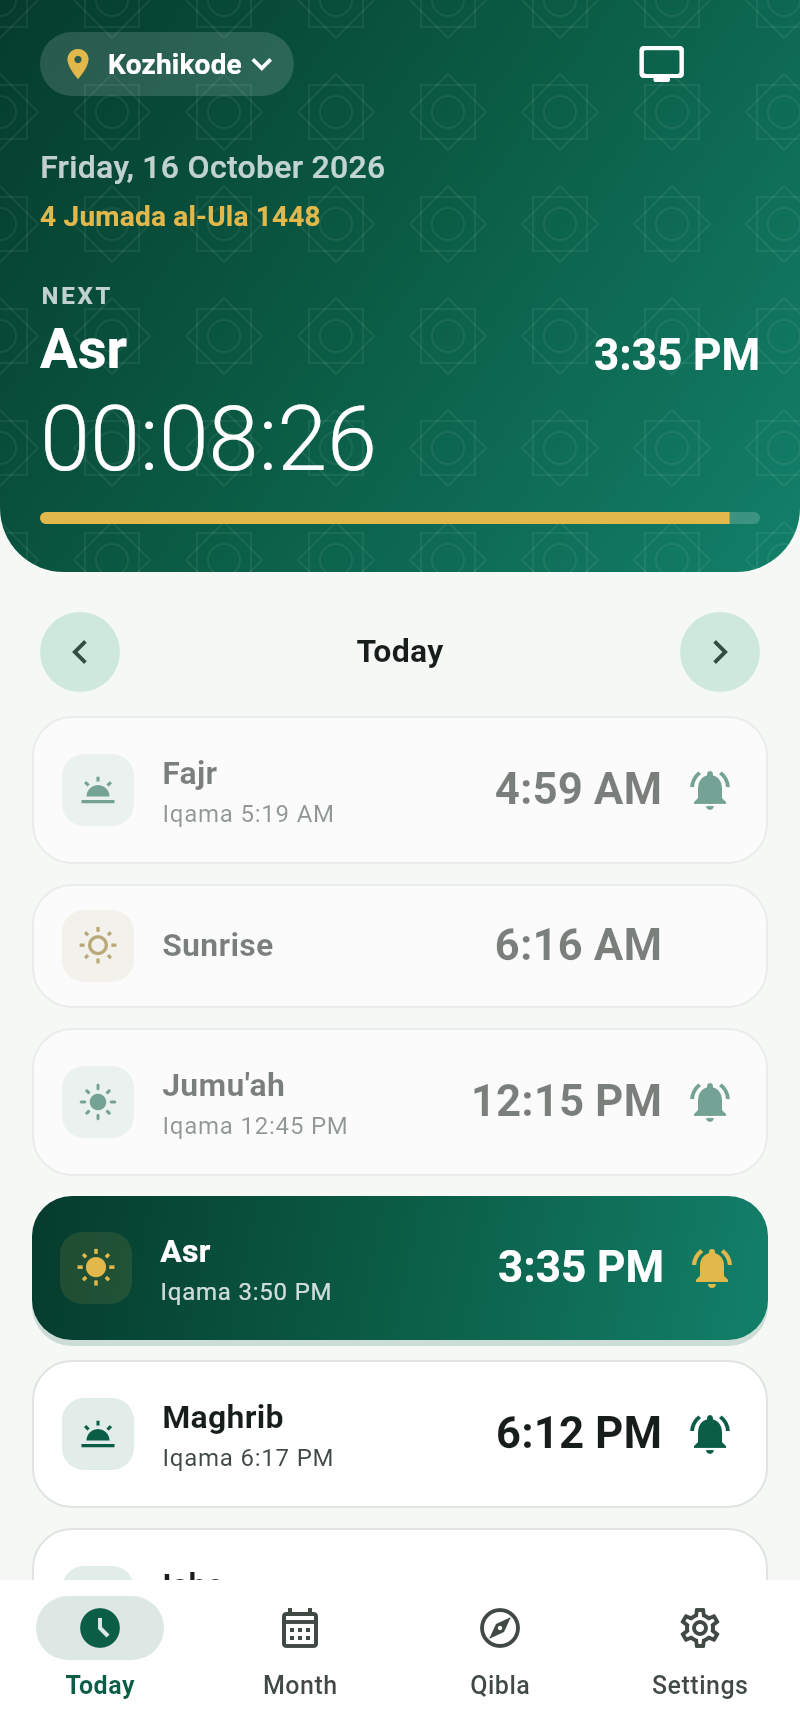
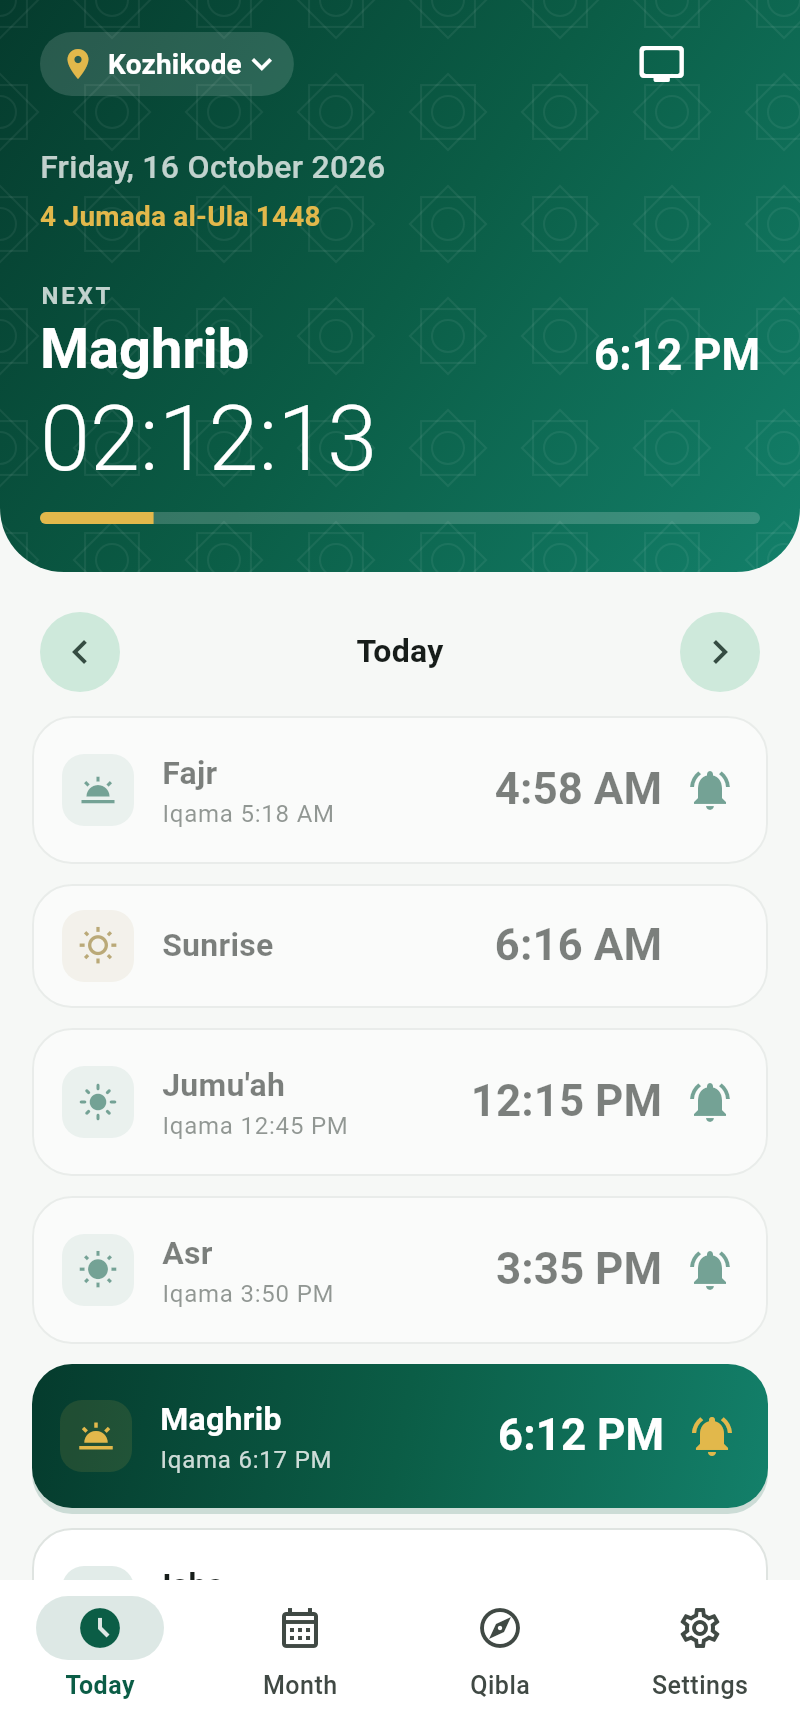
Waqt: refit Kerala Fajr/Isha angles to the Samastha charts
Checked against 69 Kerala yearly charts: Fajr now within 1 min on 86%
of days (was 45%), Isha on 93% (was 91%), with no average bias.

Claude-Session: https://claude.ai/code/session_011RQnYZdmTi7RLwqvGgsba4

Changed region(s): [[0.0312, 0.6779, 0.9688, 0.8936], [0.0312, 0.1849, 0.9062, 0.3081], [0.75, 0.1849, 0.875, 0.2157]]

diff --git a/lib/core/prayer_calc.dart b/lib/core/prayer_calc.dart
@@ -85,9 +85,10 @@ class CalcMethod {
   static const kerala = CalcMethod(
     id: 'kerala',
     name: 'Kerala (Samastha-style)',
-    // Fitted to published Kerala yearly charts: about ±1 min over the year.
-    fajrAngle: 19.5,
-    ishaAngle: 18.5,
+    // Fitted to 69 published Kerala yearly charts: within 1 min on about
+    // 9 days in 10, within 2 min on 19 in 20.
+    fajrAngle: 19.8,
+    ishaAngle: 18.4,
     dhuhrMinutes: 3,
     asrMinutes: 2,
     maghribMinutes: 3,

diff --git a/test/core/prayer_calc_test.dart b/test/core/prayer_calc_test.dart
@@ -90,8 +90,8 @@ void main() {
         method: CalcMethod(
           id: 'x',
           name: 'x',
-          fajrAngle: 19.5,
-          ishaAngle: 18.5,
+          fajrAngle: 19.8,
+          ishaAngle: 18.4,
         ),
       ),
     );

diff --git a/README.md b/README.md
@@ -79,7 +79,7 @@ Kerala and working anywhere. No ads, no tracking and no internet permission.
 
 | Method | Fajr | Isha | Built-in margins |
 |---|---|---|---|
-| **Kerala (Samastha-style)** (default) | 19.5° | 18.5° | Dhuhr +3, Asr +2, Maghrib +3 min |
+| **Kerala (Samastha-style)** (default) | 19.8° | 18.4° | Dhuhr +3, Asr +2, Maghrib +3 min |
 | Karachi | 18° | 18° | – |
 | Muslim World League | 18° | 17° | – |
 | Umm al-Qura | 18.5° | 90 min after Maghrib (120 in Ramadan) | – |
